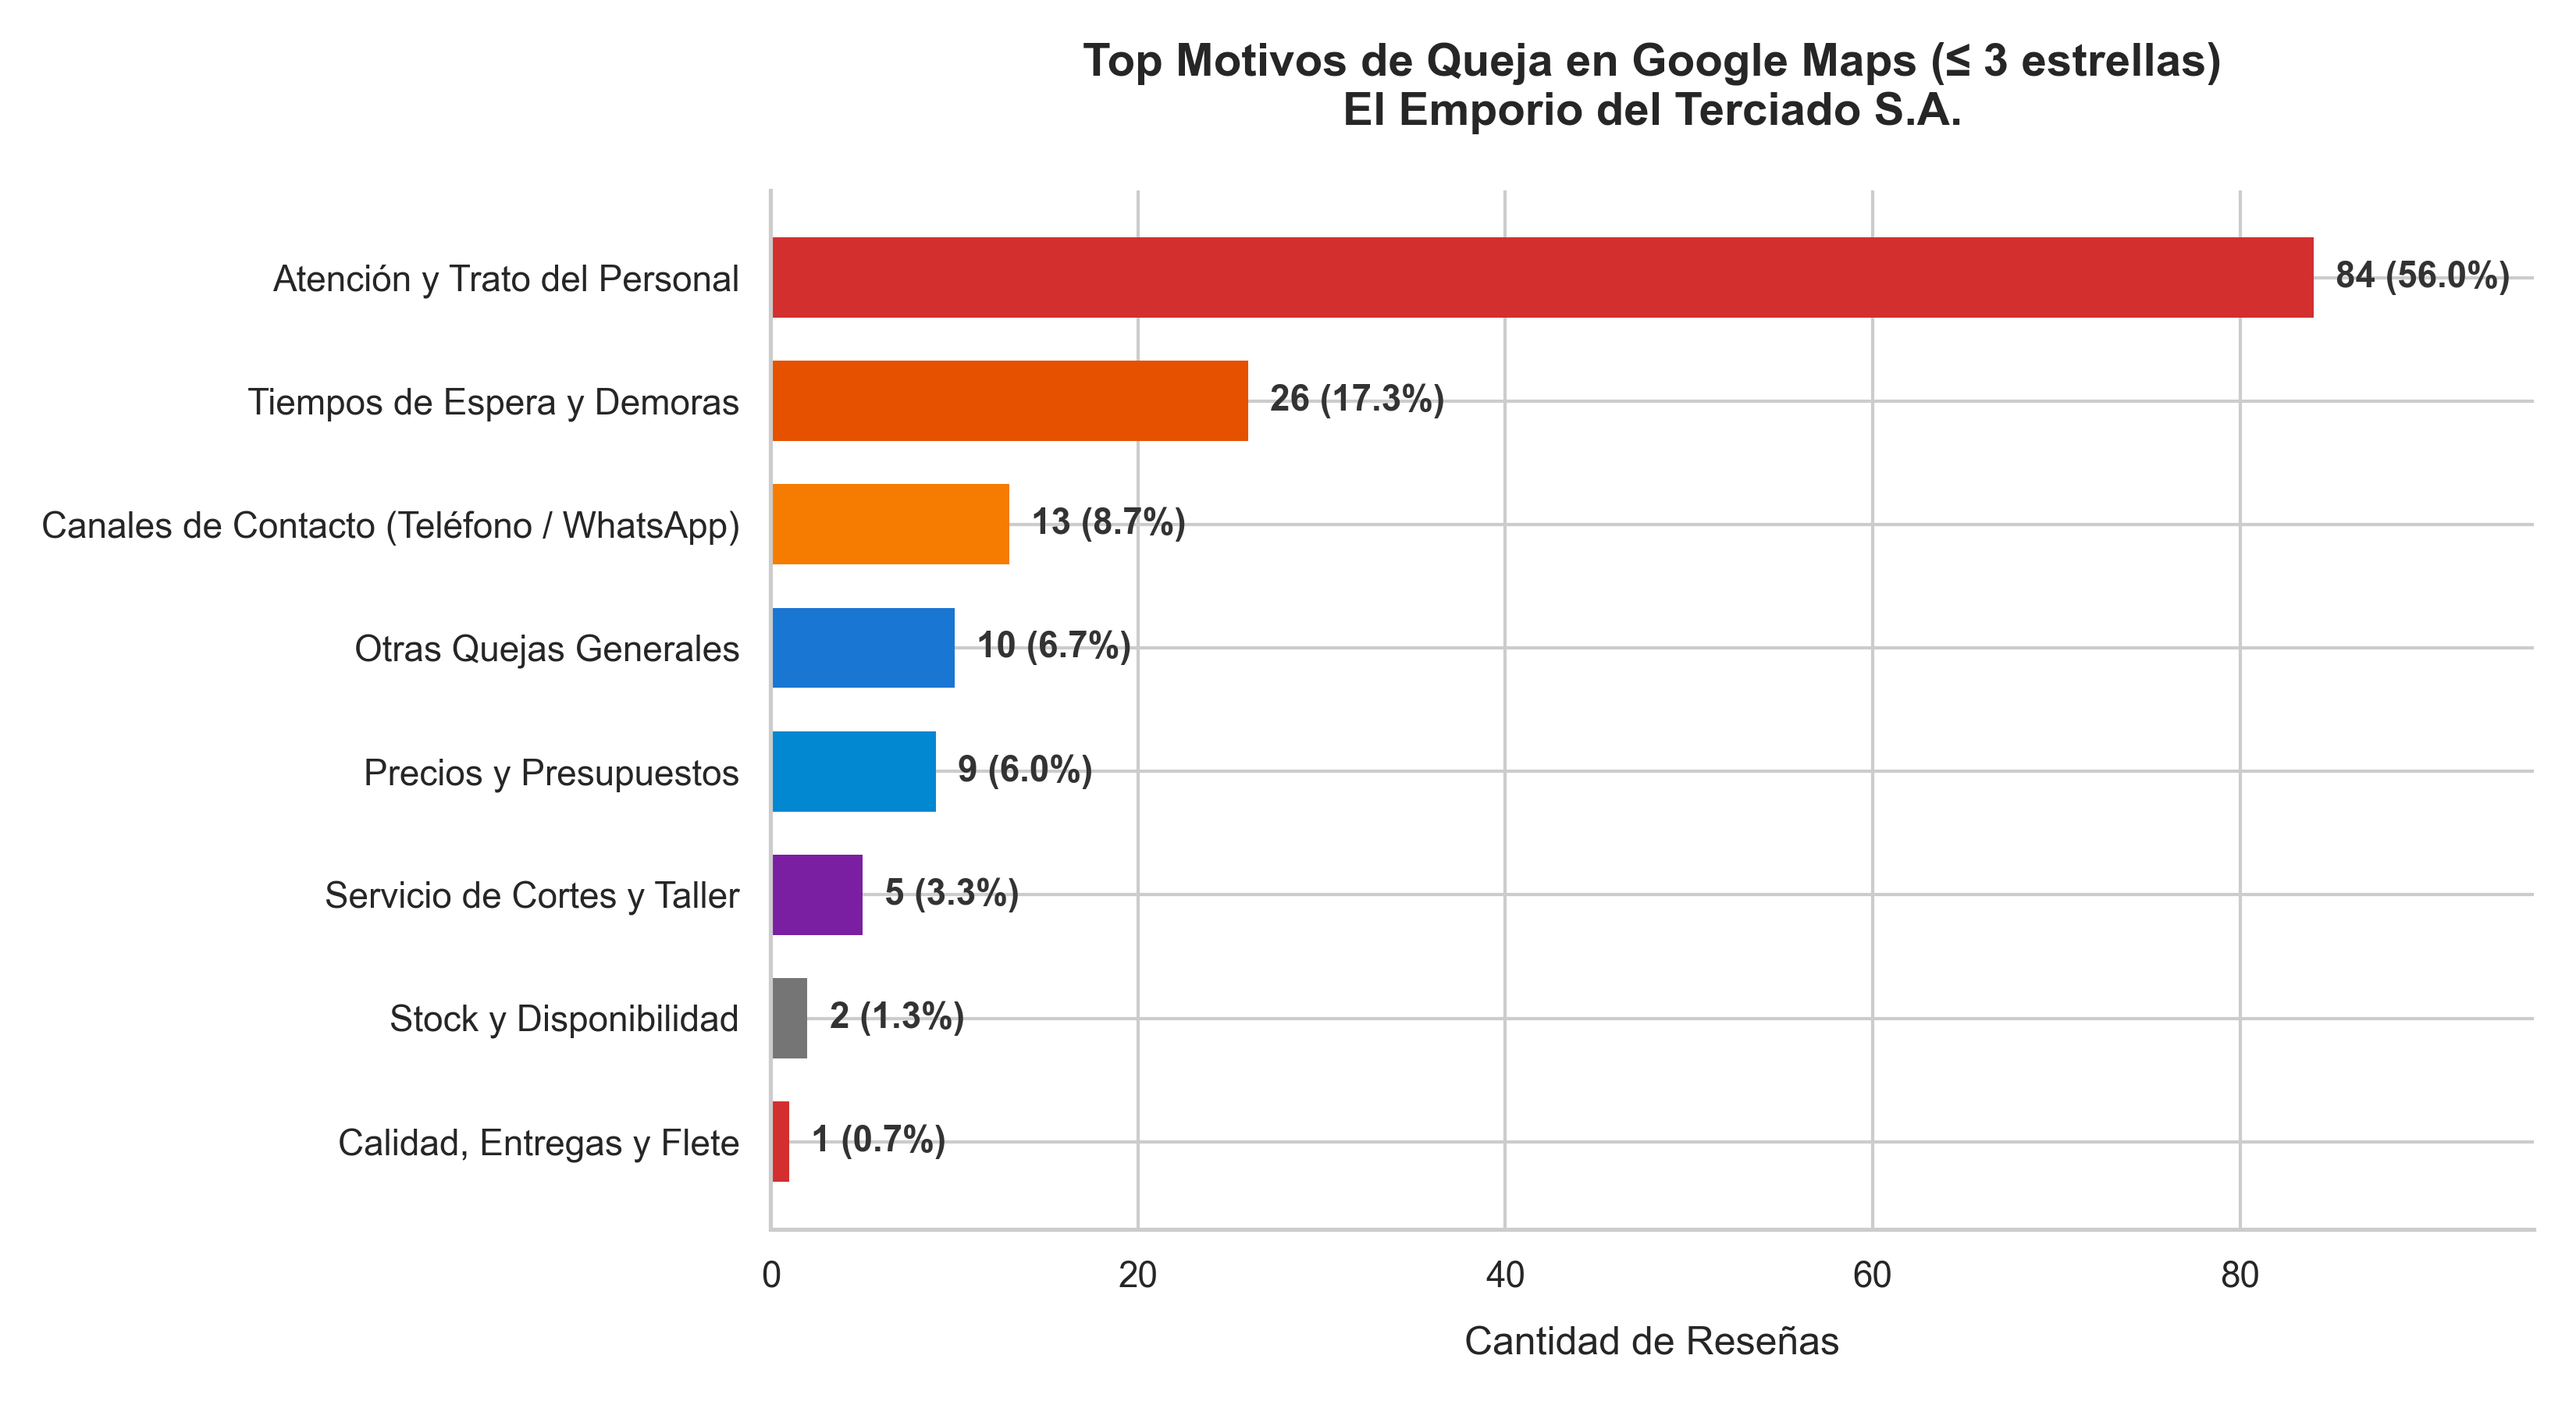
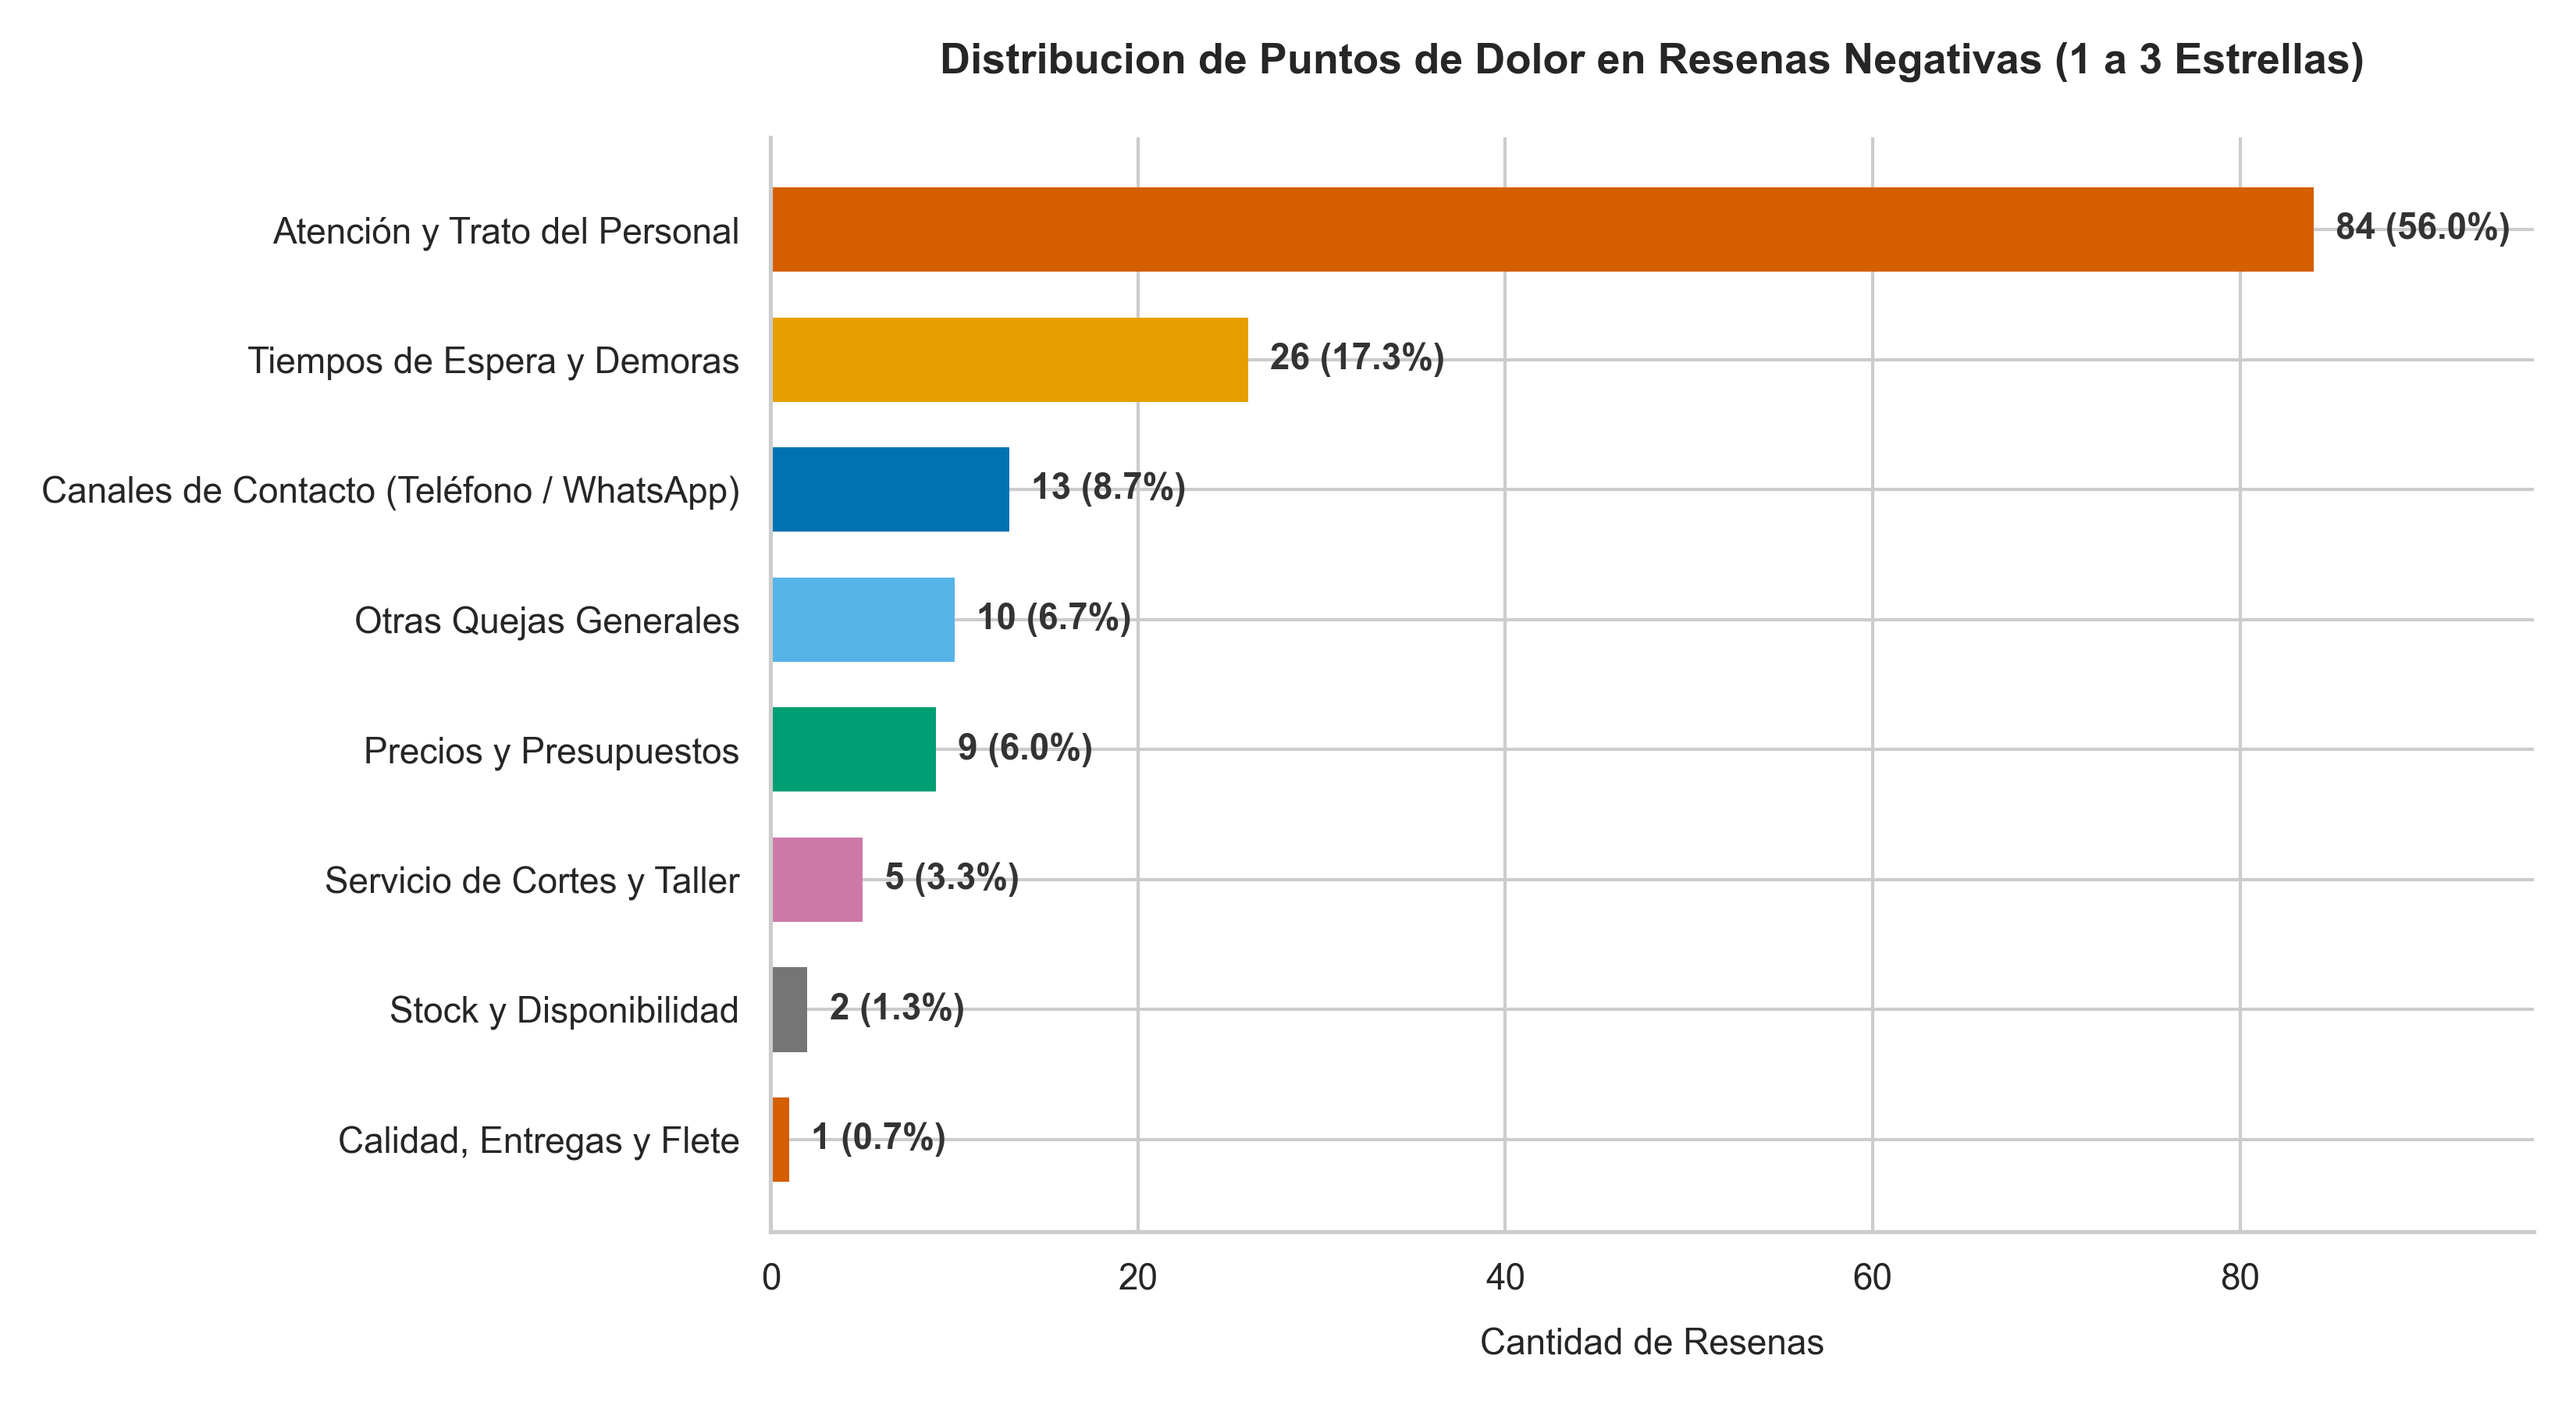
Design: Aplicar paleta de colores universal y accesible Okabe-Ito

diff --git a/app.py b/app.py
@@ -54,13 +54,13 @@ st.markdown("""
         font-weight: 500;
     }
     .quote-box {
-        background-color: #FEF2F2;
-        border-left: 4px solid #EF4444;
+        background-color: #FFF7ED;
+        border-left: 4px solid #D55E00;
         padding: 0.8rem 1.2rem;
         margin: 0.8rem 0;
         border-radius: 4px;
         font-style: italic;
-        color: #7F1D1D;
+        color: #7C2D12;
     }
 </style>
 """, unsafe_allow_html=True)
@@ -228,7 +228,7 @@ if menu == "Resumen Ejecutivo":
                 orientation="h",
                 text=cat_data.apply(lambda r: f"{r['Cantidad']} ({r['Porcentaje']}%)", axis=1),
                 color="Cantidad",
-                color_continuous_scale=["#3B82F6", "#EF4444"],
+                color_continuous_scale=["#56B4E9", "#D55E00"],
             )
             fig.update_layout(
                 yaxis=dict(autorange="reversed"),
@@ -256,7 +256,7 @@ if menu == "Resumen Ejecutivo":
                 values="Cantidad",
                 hole=0.45,
                 color="Estrellas",
-                color_discrete_map={1: "#EF4444", 2: "#F97316", 3: "#FBBF24"}
+                color_discrete_map={1: "#D55E00", 2: "#E69F00", 3: "#56B4E9"}
             )
             fig_pie.update_layout(height=380, margin=dict(l=10, r=10, t=10, b=10))
             st.plotly_chart(fig_pie, use_container_width=True)
@@ -295,7 +295,7 @@ elif menu == "Evolución Temporal":
         color="estrellas_str",
         title=f"Volumen Anual de Reseñas ({rango_anios[0]} - {rango_anios[1]})",
         labels={"anio_estimado": "Año", "cantidad": "Cantidad de Reseñas", "estrellas_str": "Calificación"},
-        color_discrete_map={"1 Estrella": "#EF4444", "2 Estrellas": "#F97316", "3 Estrellas": "#FBBF24"},
+        color_discrete_map={"1 Estrella": "#D55E00", "2 Estrellas": "#E69F00", "3 Estrellas": "#56B4E9"},
         barmode="stack"
     )
     fig_evol.update_layout(
@@ -316,6 +316,7 @@ elif menu == "Evolución Temporal":
             x="anio_estimado",
             y="quejas",
             color="categoria_principal",
+            color_discrete_sequence=["#D55E00", "#0072B2", "#009E73", "#E69F00", "#CC79A7", "#56B4E9"],
             markers=True,
             labels={"anio_estimado": "Año", "quejas": "Cantidad de Quejas", "categoria_principal": "Motivo"},
             title="Tendencia Anual por Categoría de Queja"
@@ -448,7 +449,7 @@ elif menu == "Explorador de Reseñas":
                 
             if pd.notna(row['respuesta_dueno']) and row['respuesta_dueno'].strip():
                 st.markdown(f"""
-                <div style="background-color: #F0FDF4; border-left: 4px solid #22C55E; padding: 0.6rem 1rem; border-radius: 4px; margin-top: 0.5rem;">
+                <div style="background-color: #F0FDF4; border-left: 4px solid #009E73; padding: 0.6rem 1rem; border-radius: 4px; margin-top: 0.5rem;">
                     <b>Respuesta oficial:</b><br>{row['respuesta_dueno']}
                 </div>
                 """, unsafe_allow_html=True)

diff --git a/analisis_quejas.py b/analisis_quejas.py
@@ -127,7 +127,8 @@ def main():
     sns.set_theme(style="whitegrid")
     fig, ax = plt.subplots(figsize=(11, 6))
     
-    colors = ["#D32F2F", "#E65100", "#F57C00", "#1976D2", "#0288D1", "#7B1FA2", "#757575"]
+    # Paleta Okabe-Ito (colorblind-safe)
+    colors = ["#D55E00", "#E69F00", "#0072B2", "#56B4E9", "#009E73", "#CC79A7", "#757575"]
     
     y_data = cat_counts.index
     x_data = cat_counts.values
